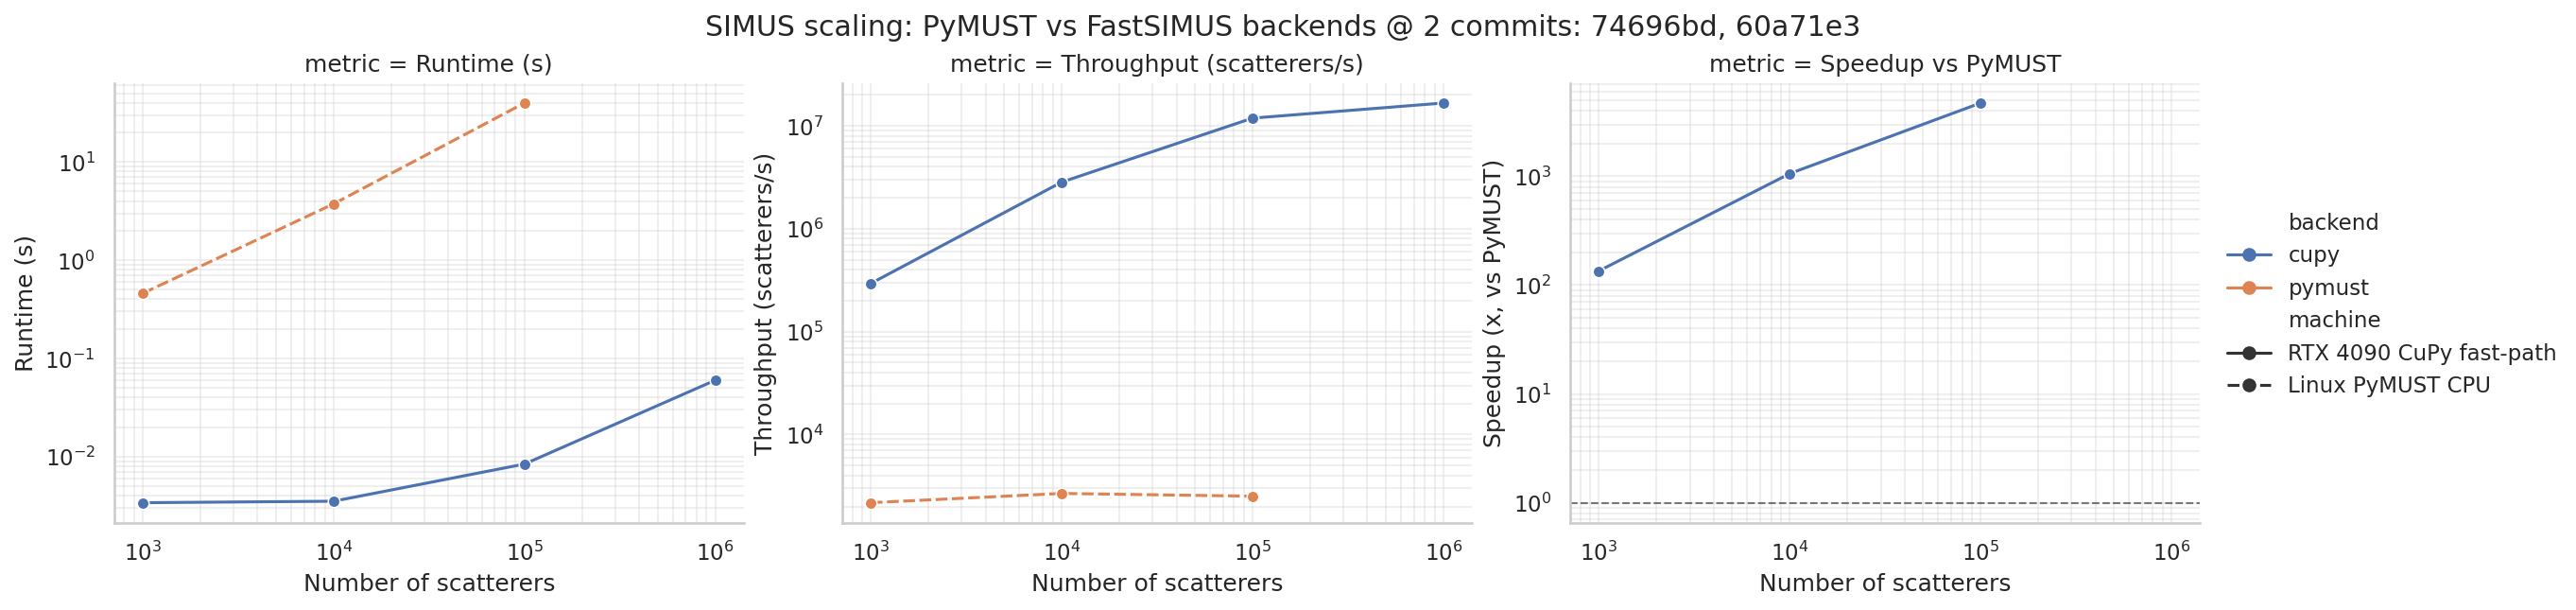
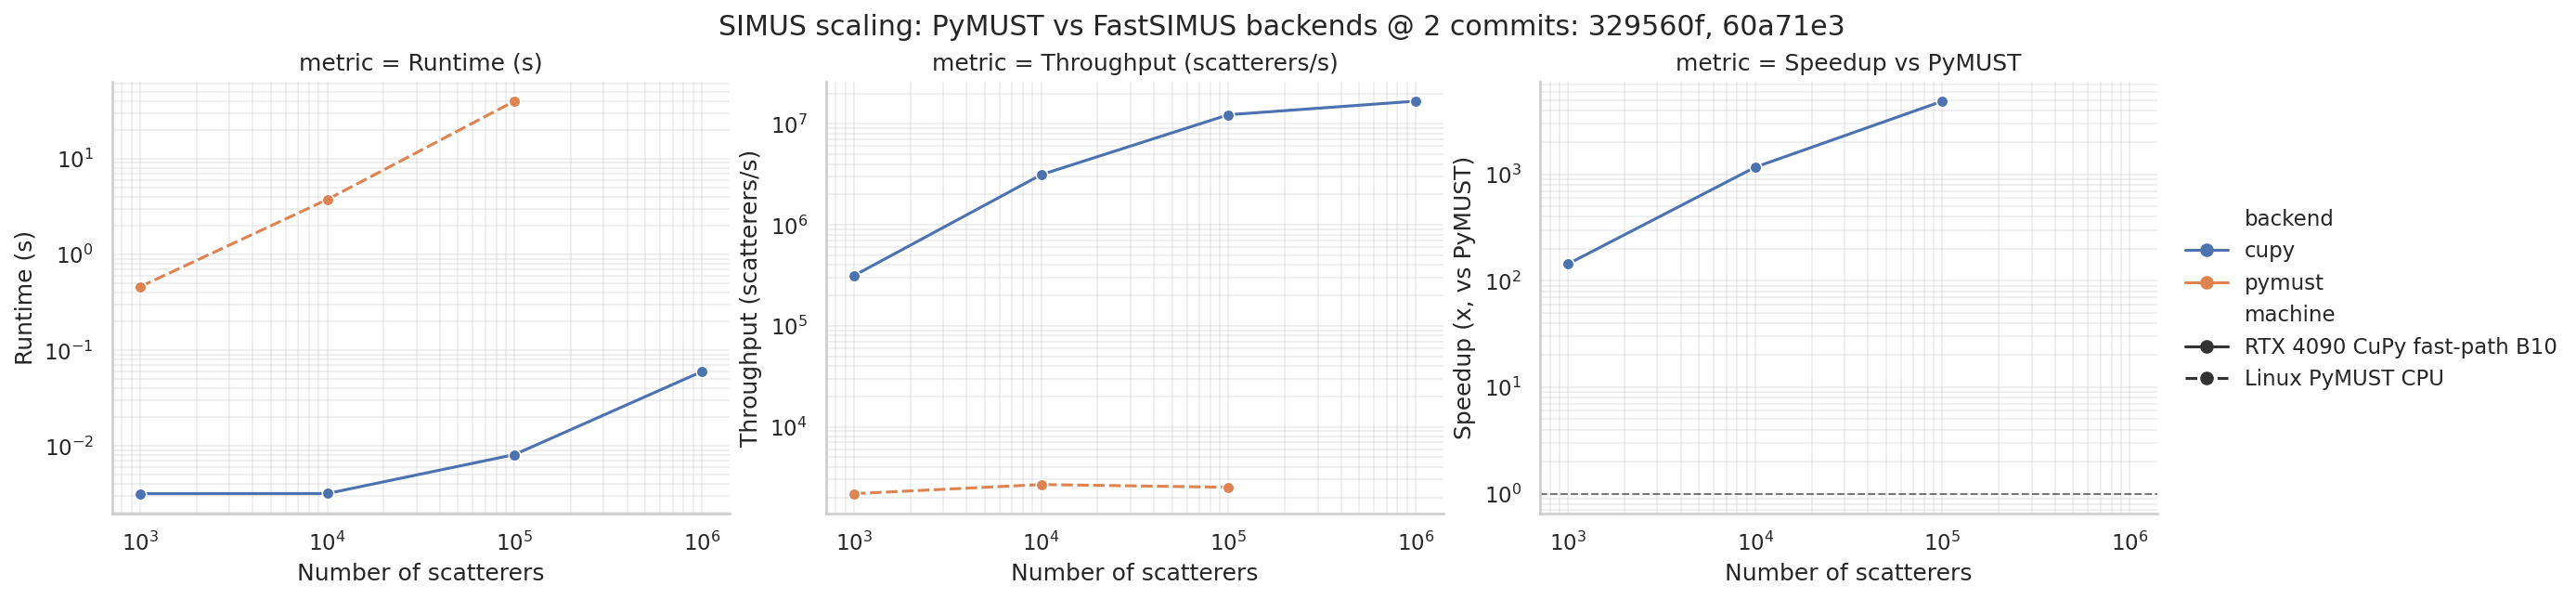
perf: tune CUDA scatterer batch for 1M scale
Use the measured B_SCAT=10 configuration for the CUDA SIMUS fast path and refresh the benchmark figure around the 1M-focused throughput improvement.

diff --git a/src/fast_simus/kernels/cuda_simus.py b/src/fast_simus/kernels/cuda_simus.py
@@ -2,7 +2,7 @@
 
 Compiles the v25c register-resident TX kernel via NVRTC at runtime
 (``cupy.RawModule``) -- no nanobind, no setuptools build step. Pinned to
-``(B_SCAT=9, ELEM_TILE=2)`` for RTX 4090 / sm_89 / P4-2v; performance may
+``(B_SCAT=10, ELEM_TILE=2)`` for RTX 4090 / sm_89 / P4-2v; performance may
 regress on other probes / GPUs (see exp22 + the FastSIMUS-cuda-tune
 follow-up).
 
@@ -37,7 +37,7 @@ _SOURCE_NAME = "simus_fused.cu"
 
 # Pinned tuning -- see docs/progress/experiments/exp22-svshmem-et2.md.
 # These constants are RTX 4090 / sm_89 / P4-2v optimal; not autotuned.
-_B_SCAT = 9
+_B_SCAT = 10
 _ELEM_TILE = 2
 _TG_SIZE = 128
 _TILE_SE = 16

diff --git a/tests/backend/test_cupy.py b/tests/backend/test_cupy.py
@@ -13,7 +13,7 @@ import pytest
 
 cp = pytest.importorskip("cupy")
 
-from fast_simus.kernels.cuda_simus import _DEFAULT_SHMEM_CAP_BYTES, _get_kernel, _kernel_cache, _shmem_bytes
+from fast_simus.kernels.cuda_simus import _B_SCAT, _DEFAULT_SHMEM_CAP_BYTES, _get_kernel, _kernel_cache, _shmem_bytes
 from fast_simus.simus import SimusStrategy, simus
 from fast_simus.transducer_presets import L11_5v, P4_2v
 from fast_simus.utils._array_api import Array
@@ -62,7 +62,7 @@ def test_simus_cuda_output_is_cupy():
 def test_simus_cuda_does_not_prepare_python_sweep(monkeypatch):
     """CUDA dispatch must skip _prepare_simus_sweep; v25c prepares flat inputs itself."""
     params = P4_2v()
-    n_scat = 9
+    n_scat = _B_SCAT
     scat_np = np.stack([np.zeros(n_scat), np.linspace(1e-2, 5e-2, n_scat)], axis=-1).astype(np.float32)
     rc_np = np.ones(n_scat, dtype=np.float32)
     delays_np = np.zeros(params.n_elements, dtype=np.float32)

diff --git a/docs/progress/experiments/2026-04-cuda-fastpath-ncu.md b/docs/progress/experiments/2026-04-cuda-fastpath-ncu.md
@@ -51,6 +51,32 @@ registers/thread, and the local load/store counters plus NCU warnings show ineff
 L2 throughput are close to the exp22 v25c profile, so the fast-path dispatch refactor did not change the underlying
 kernel limiter.
 
-The next experiment should be **Experiment C: Kernel tuning from exp22 follow-up**, focused on reducing register
-pressure and local-memory traffic. Wrapper prep is a visible 100K fixed cost, but the user's priority is the 1M scale,
-where the kernel dominates the time sink.
+The next experiment should be **Experiment C: Kernel tuning from exp22 follow-up**, focused on reducing register pressure
+and local-memory traffic. Wrapper prep is a visible 100K fixed cost, but the user's priority is the 1M scale, where the
+kernel dominates the time sink.
+
+## Constant Sweep
+
+Before changing the CUDA source structure, run a narrow compile-time constant sweep around the shipped config. This uses
+the same `simus_compute()` inputs and measures five synchronized runs per config at 1M scatterers:
+
+| Config               | Mean Runtime | Throughput    |
+| -------------------- | -----------: | ------------: |
+| `B_SCAT=8, ET=2`     |    60.472 ms | 16.54 M/s     |
+| `B_SCAT=9, ET=2`     |    59.641 ms | 16.77 M/s     |
+| `B_SCAT=10, ET=2`    |    58.905 ms | **16.98 M/s** |
+| `B_SCAT=7, ET=3`     |    63.546 ms | 15.74 M/s     |
+| `B_SCAT=7, ET=4`     |    62.352 ms | 16.04 M/s     |
+
+Select `B_SCAT=10, ELEM_TILE=2` as a small 1M-focused tuning win. This does not address the fundamental register/local
+memory limiter; it is a narrow constant adjustment before larger half2/fp16 `cv` work.
+
+Pytest-benchmark verification after applying `B_SCAT=10, ELEM_TILE=2` wrote
+`.benchmarks/Linux-CPython-3.12-64bit/0006_329560fd18e690bc806f269e7cb0dca1f76a85a6_20260428_234933_uncommited-changes.json`:
+
+| `n_scat` | Mean Runtime | Throughput |
+| -------: | -----------: | ---------: |
+|     1000 |    3.1835 ms |  0.31 M/s  |
+|    10000 |    3.1910 ms |  3.13 M/s  |
+|   100000 |    8.1315 ms | 12.30 M/s  |
+|  1000000 |   59.6752 ms | 16.76 M/s  |

diff --git a/docs/progress/plans/2026-04-28-cuda-simus-fastpath.md b/docs/progress/plans/2026-04-28-cuda-simus-fastpath.md
@@ -191,8 +191,8 @@ def test_simus_cuda_does_not_prepare_python_sweep(monkeypatch):
     assert bool(cp.all(cp.isfinite(result.rf)))
 ```
 
-**Why `n_scat = 9`:** It is exactly one `B_SCAT` batch, so the test focuses on dispatch ordering and avoids exercising
-the padding path in `cuda_simus._prepare_inputs`.
+**Why `n_scat` follows `cuda_simus._B_SCAT`:** It is exactly one scatterer batch, so the test focuses on dispatch ordering
+and avoids exercising the padding path in `cuda_simus._prepare_inputs`.
 
 #### 2. Python Strategy Still Uses Sweep
 
@@ -477,6 +477,9 @@ falls out naturally. Full CuPy sweep wrote
 `.benchmarks/Linux-CPython-3.12-64bit/0005_74696bdbaff2cfaefc4c857a1f5c951b57ce18ed_20260428_212045_uncommited-changes.json`.
 The regenerated figure used that JSON plus the PyMUST CPU baseline
 `.benchmarks/Linux-CPython-3.12-64bit/0002_60a71e35b185e0eb00ed75ce6f27a9ec7362dd9b_20260428_195358.json`.
+After the Phase 4 `B_SCAT=10` constant adjustment, the refreshed CuPy sweep wrote
+`.benchmarks/Linux-CPython-3.12-64bit/0006_329560fd18e690bc806f269e7cb0dca1f76a85a6_20260428_234933_uncommited-changes.json`.
+The 100K row improved to 8.1315 ms = 12.30 M scat/s, and the 1M row improved to 59.6752 ms = 16.76 M scat/s.
 
 #### Manual Verification
 
@@ -604,11 +607,11 @@ Implementation sketch:
 
 - [x] NCU command produces a `.ncu-rep` file.
 - [x] Experiment doc contains concrete measured values from pytest-benchmark and NCU before commit.
-- [ ] Any kernel variant passes CUDA backend tests:
+- [x] Any kernel variant passes CUDA backend tests:
   `uv run pytest tests/backend/test_cupy.py -q -p no:xdist -p no:testmon`
 - [ ] Any public dispatch changes pass full suite:
   `uv run pytest tests/ --ignore=tests/benchmarks -n 4 -p no:testmon -p no:benchmark`
-- [ ] Any benchmark improvement is measured with pytest-benchmark JSON, not hand timing.
+- [x] Any benchmark improvement is measured with pytest-benchmark JSON, not hand timing.
 
 #### Manual Verification
 